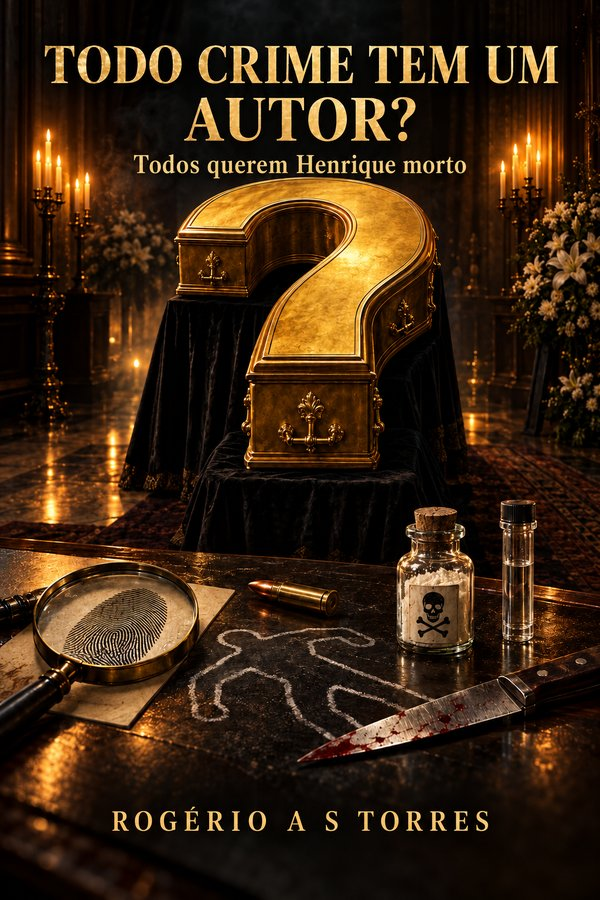
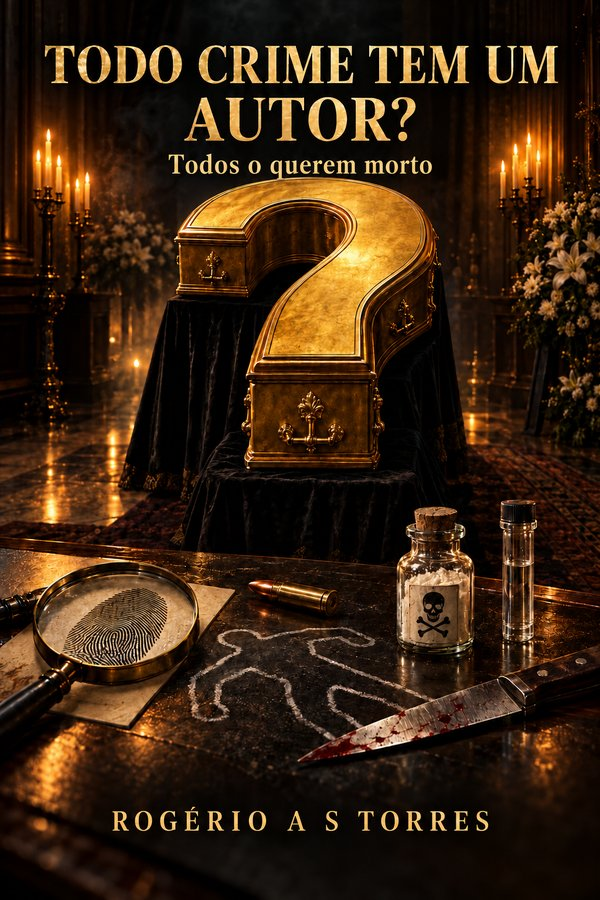
Livros: frase da capa passa a ser "Todos o querem morto"
Claude-Session: https://claude.ai/code/session_01PrGy2jT5wP4FfLJrUk12fw

diff --git a/public/livros.html b/public/livros.html
@@ -56,7 +56,7 @@ footer{text-align:center;color:#8d8670;font-size:13px;padding:10px 16px 24px}
     <div>
       <p class="genero">Romance policial</p>
       <h2>Todo crime tem um autor?</h2>
-      <p class="frase">Todos querem Henrique morto.</p>
+      <p class="frase">Todos o querem morto.</p>
       <p>Henrique Salvallus escapou da morte quatro vezes em oito meses. Na quinta, ela veio sem barulho, numa terça-feira de manhã. Com o celular do pai nas mãos, onde cada senha abre um segredo, os filhos Lucas e Lia descobrem que todos tinham motivo. O que não sabem é que, em silêncio, um está investigando o outro.</p>
       <span class="estado">Em breve pela UICLAP</span>
       <div class="caixa">Este livro tem um celular de verdade. Ao longo da história, as caixas <b>NO CELULAR DE HENRIQUE</b> trazem senhas que abrem, aqui no site, as mesmas mensagens, fotos e áudios que Lucas e Lia estão descobrindo.</div>
